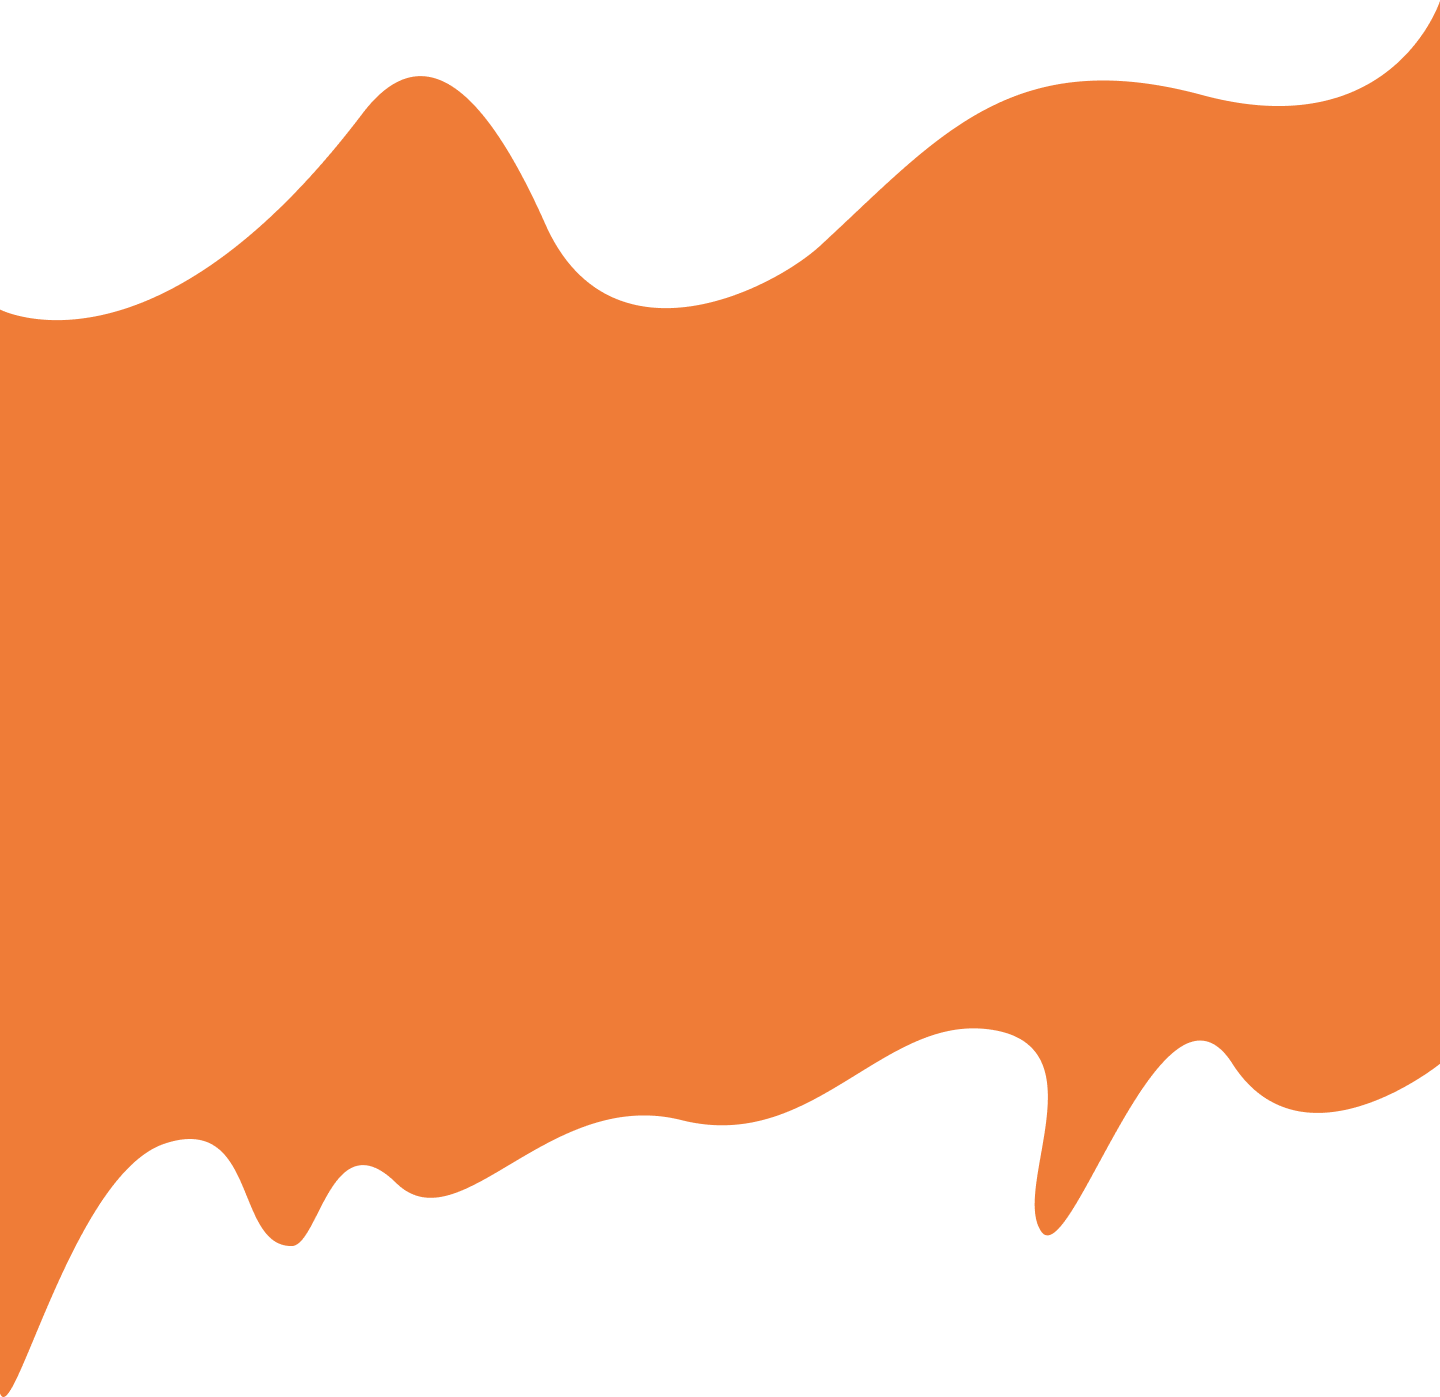
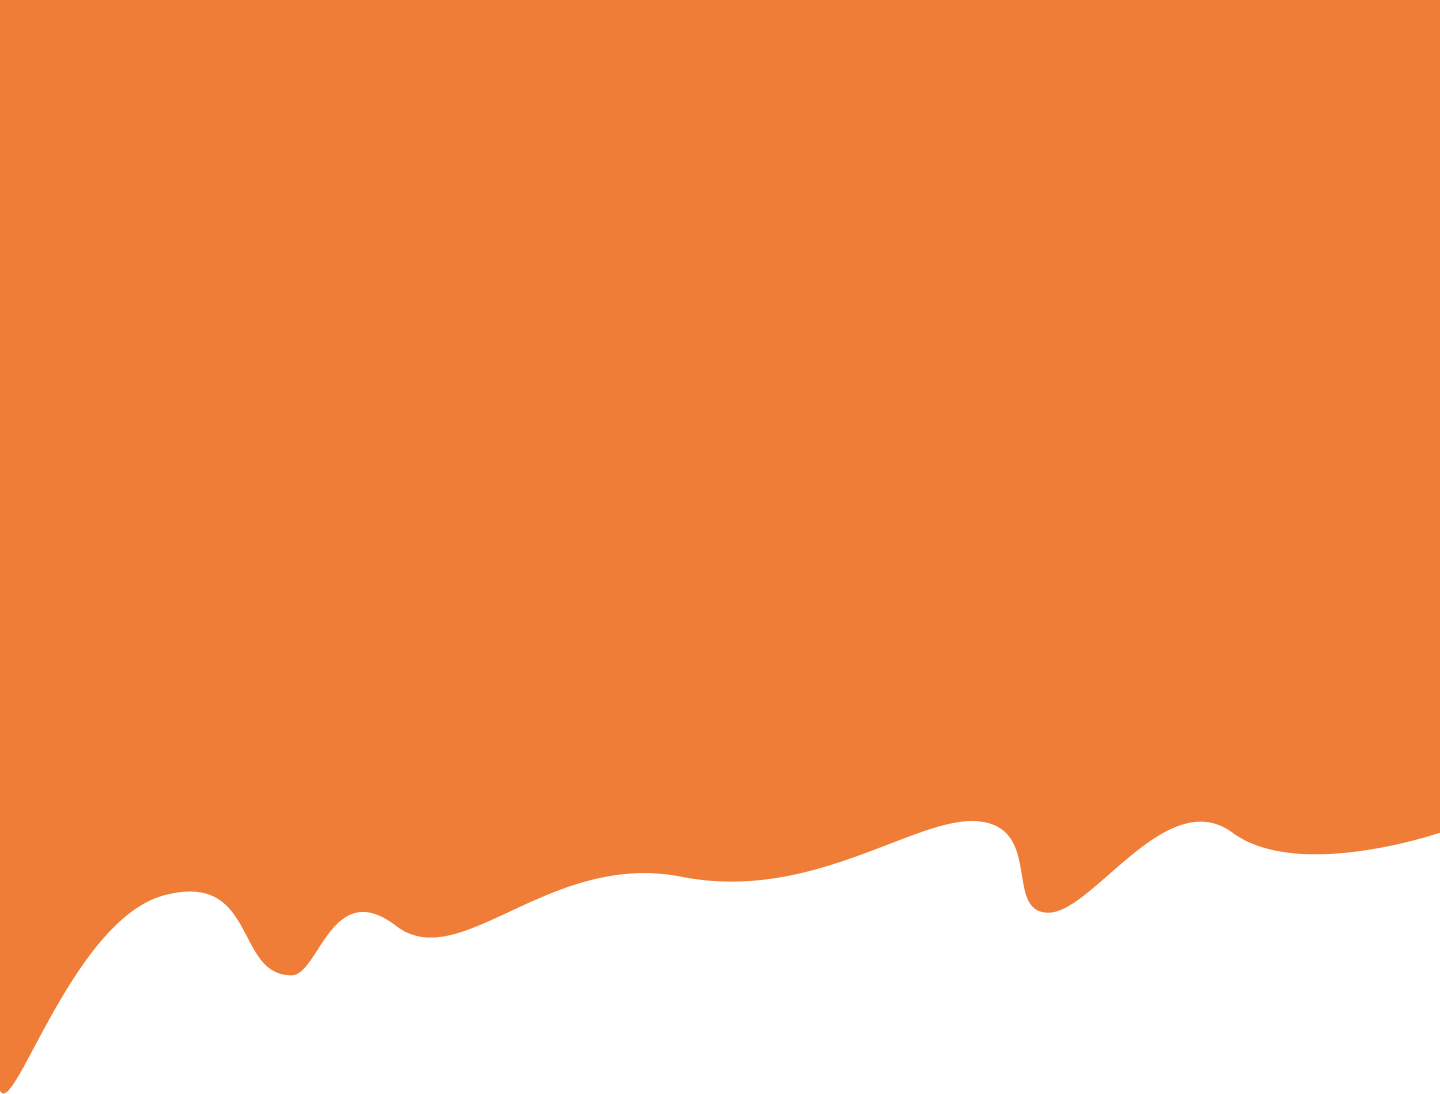
three block

diff --git a/src/components/OrangeBlock/OrangeBlock.module.scss b/src/components/OrangeBlock/OrangeBlock.module.scss
@@ -3,20 +3,46 @@
 .wrapper {
   background: $yellow;
   position: relative;
+  overflow-x: clip;
 
   .orange_wave {
     position: relative;
-    width: 100vw;
-    margin-top: -22.292vw;
+    width: vwPC(1440);
+    height: vwPC(1093.48);
+    margin-top: vwPC(-241.48);
+    display: block;
+
+    @include phone-down() {
+      display: none;
+    }
+  }
+
+  .orange_wave_mobile {
+    display: none;
+
+    @include phone-down() {
+      display: block;
+      position: relative;
+      width: vwMB(360);
+      height: vwMB(354.31);
+      margin-top: vwMB(-82.17);
+    }
   }
 
   .yellow_bottle {
     position: absolute;
     z-index: 5;
-    left: 3.2vw;
-    top: 11.32vw;
-    width: 27.57vw;
-    height: 61.33vw;
+    width: vwPC(305.43);
+    height: vwPC(618.14);
+    left: vwPC(105);
+    bottom: vwPC(202.34);
+
+    @include phone-down() {
+      width: vwMB(100.85);
+      height: vwMB(218.58);
+      top: vwMB(44.89);
+      left: vwMB(10);
+    }
   }
 
   .energy {
@@ -26,71 +52,163 @@
     top: 68vw;
     left: -1.74vw;
     z-index: 5;
+    display: none;
+
+    @include phone-down() {
+      display: block;
+    }
   }
 
   .pineapple_linchi {
     position: absolute;
-    bottom: 25vw;
-    left: 42.53vw;
-    width: 28vw;
-    height: 16.67vw;
+    width: vwPC(276.44);
+    height: vwPC(164.9);
+    left: vwPC(564);
+    bottom: vwPC(270.76);
     z-index: 5;
+
+    @include phone-down() {
+      width: vwMB(102.23);
+      height: vwMB(60.87);
+      left: vwMB(154);
+      bottom: vwMB(85.9);
+    }
   }
 
   .berry {
     position: absolute;
-    bottom: 29.86vw;
-    right: 3.4vw;
-    width: 6.46vw;
-    height: 7.43vw;
+    width: vwPC(72.48);
+    height: vwPC(83.39);
+    right: vwPC(163.52);
+    bottom: vwPC(300.08);
+
+    @include phone-down() {
+      width: vwMB(23.59);
+      height: vwMB(27.14);
+      right: vwMB(12);
+      bottom: vwMB(115);
+    }
   }
 
   .crazy_linch {
-    width: 25.2vw;
-    height: 39.24vw;
+    width: vwPC(264);
+    height: vwPC(411);
     position: absolute;
-    bottom: 25.81vw;
-    left: 19.74vw;
+    bottom: vwPC(195);
+    left: vwPC(305);
     cursor: pointer;
     z-index: 5;
+
+    @include phone-down() {
+      width: vwMB(92.07);
+      height: vwMB(143.3);
+      left: vwMB(70);
+      bottom: vwMB(94.35);
+      z-index: 7;
+    }
+  }
+
+  .vitamin_b {
+    position: absolute;
+    top: vwPC(444);
+    right: vwPC(-47);
+    width: vwPC(221.73);
+    height: vwPC(221.73);
+    transform: rotate(17.43deg);
+
+
+    @include phone-down() {
+      display: none;
+    }
   }
 
   .yellow_spray {
     position: absolute;
-    top: 10.486vw;
-    left: 33.194vw;
-    z-index: 4;
-    width: 7.014vw;
-    height: 11.73vw;
+    width: vwPC(97.11);
+    height: vwPC(132.88);
+    left: vwPC(500);
+    top: vwPC(165);
+    transform: matrix(1, -0.01, 0.02, 1, 0, 0) rotate(-8deg);
+    z-index: 6;
+    display: block;
+
+    @include phone-down() {
+      width: vwMB(24.63);
+      height: vwMB(43.05);
+      top: vwMB(52.72);
+      left: vwMB(127);
+    }
   }
 
   .union {
     position: absolute;
-    left: 36.46vw;
-    top: 9.37vw;
-    width: 37.7vw;
-    height: 29.61vw;
+    left: vwPC(587);
+    top: vwPC(247);
+    width: vwPC(402);
+    height: vwPC(295);
     z-index: 4;
     transition: all 0.5s ease-out;
     opacity: 0;
+    display: block;
 
     @include phone-down() {
+      display: none;
+    }
+  }
+
+  .union_orange_mobile {
+    display: none;
+
+    @include phone-down() {
+      display: block;
+      width: vwMB(142);
+      height: vwMB(109);
+      position: absolute;
+      left: vwMB(130);
+      top:vwMB(43.88);
+      z-index: 6;
+      opacity: 0;
+      transition: all 0.5s ease-out;
+    }
+  }
+
+  .union_orange_mobile_show {
+    display: none;
+
+    @include phone-down() {
+      display: block;
       opacity: 1;
-      width: 53.96vw;
-      height: 42.3vw;
+      width: vwMB(204.04);
+      height: vwMB(157.12);
+      transition: all 0.5s ease-out;
     }
   }
 
   .union_show {
     transition: all 0.5s ease-out;
-    width: 53.96vw;
-    height: 42.3vw;
+    width: vwPC(575);
+    height: vwPC(422);
     opacity: 1;
   }
 
   .linch_animation {
-/*    animation: up 4s ease-out;
-    animation-fill-mode: forwards;*/
+    /*    animation: up 4s ease-out;
+        animation-fill-mode: forwards;*/
+  }
+
+  .orange_spray {
+    position: absolute;
+    left: vwPC(93);
+    bottom: vwPC(89.35);
+    width: vwPC(118.32);
+    height: vwPC(95.02);
+
+    @include phone-down() {
+      width: vwMB(30.12);
+      height: vwMB(30.61);
+      left: vwMB(24);
+      bottom: vwMB(29);
+    }
   }
 }
 

diff --git a/src/components/OrangeBlock/index.js b/src/components/OrangeBlock/index.js
@@ -8,25 +8,35 @@ import cirkle from './../../assets/img/cirkle.png';
 import yellow_spray from './../../assets/img/yellow_spray.png';
 import crazy_kent from './../../assets/img/crazy_kent.png';
 import linchi_pineapple from './../../assets/img/linchi_pineapple.png';
+import vitamin_b from './../../assets/img/vitamin_b_green.png';
 import union_yellow from './../../assets/img/union_yellow.png';
+import orange from './../../assets/img/orange_spray_left.png'
+import orange_wave_mobile from './../../assets/img/orange_wave_mobile.png'
+import union_orange_mobile from './../../assets/img/union_orange_mobile.png'
 
 import s from './OrangeBlock.module.scss';
 import {useInView} from "react-intersection-observer";
 
 const OrangeBlock = () => {
-    const [isHover, setIsHover] = useState(false)
     const { ref, inView } = useInView({
-        threshold: 0.5,
-        triggerOnce: true,
+        threshold: 0.2,
+        //triggerOnce: true,
+    });
+    const { ref: refMobile, inView: inViewMobile } = useInView({
+        threshold: 0.2,
+        //triggerOnce: true,
     });
     return (
         <div className={s.wrapper}>
             <img className={s.orange_wave} src={orange_wave} alt="orange wave"/>
+            <img className={s.orange_wave_mobile} src={orange_wave_mobile} alt="orange wave"/>
             <img className={s.yellow_bottle} src={yellow_bottle} alt="личи ананас бутылка"/>
             <img className={s.energy} src={energy_orange} alt="enegry"/>
             <img className={s.pineapple_linchi} src={linchi_pineapple} alt="личи ананас"/>
+            <img src={vitamin_b} className={s.vitamin_b} alt="витамин B"/>
             <img className={s.berry} src={cirkle} alt="ягода"/>
             <img className={s.yellow_spray} src={yellow_spray} alt="желтая брызга"/>
+            <img className={s.orange_spray} src={orange} alt="оранжевая брызга"/>
             <img ref={ref} className={classNames(s.union, {
                 [s.union_show]: inView,
             })} src={union_yellow}
@@ -37,6 +47,10 @@ const OrangeBlock = () => {
                 [s.linch_animation]: inView,
             })} src={crazy_kent}
                  alt="crazy линч"/>
+
+            <img ref={refMobile}  className={classNames(s.union_orange_mobile, {
+                [s.union_orange_mobile_show]: inViewMobile,
+            })} src={union_orange_mobile} alt="crazy линч"/>
 
         </div>
     )

diff --git a/src/App.js b/src/App.js
@@ -31,8 +31,13 @@ function App() {
             <LogoBlock scrollToLich={scrollToLich}/>
             <div className={s.black_line}/>
             <LichiBlock refLich={refBlockLich}/>
-            {/*<OrangeBlock/>
-            <YellowBlock/>*/}
+            <OrangeBlock/>
+
+{/*
+
+            <YellowBlock/>
+*/}
+
 {/*
             <div className={s.black_line}/>
 */}

diff --git a/src/components/LichiBlock/LichiBlock.module.scss b/src/components/LichiBlock/LichiBlock.module.scss
@@ -4,6 +4,8 @@
   background: $orange;
   position: relative;
   z-index: 4;
+  overflow-x: clip;
+
 
   .background {
     width: vwPC(1440);
@@ -81,10 +83,6 @@
 
     @include phone-down() {
       display: none;
-      //this
-/*      opacity: 1;
-      width: 52.6vw;
-      height: 30.5vw;*/
     }
   }
 
